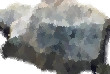
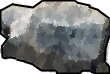
Updated rock image; Changed window title text
- Rock image now has a black border around it

Changed region(s): [[0.0, 0.0, 1.0, 1.0]]

diff --git a/app/AiSimApp.cpp b/app/AiSimApp.cpp
@@ -32,7 +32,7 @@ AiSimApp::AiSimApp() :
 
 	// TODO: the world size should come from the simulator.
 	background.setTextureRect(sf::IntRect(0, 0, 3100, 3100));
-	background.scale(.75f, .75f);
+	//background.scale(.75f, .75f);
 	background.setTexture(&backgroundImage);
 }
 
@@ -52,7 +52,7 @@ void AiSimApp::setup()
 	cout << endl;
 	printUserCommands();
 
-	window.create(sf::VideoMode(800, 800), "GUI Tests");
+	window.create(sf::VideoMode(800, 800), "Canfield: Ant Simulator");
 	window.setFramerateLimit(60);
 
 	viewManager.setWindow(window);
